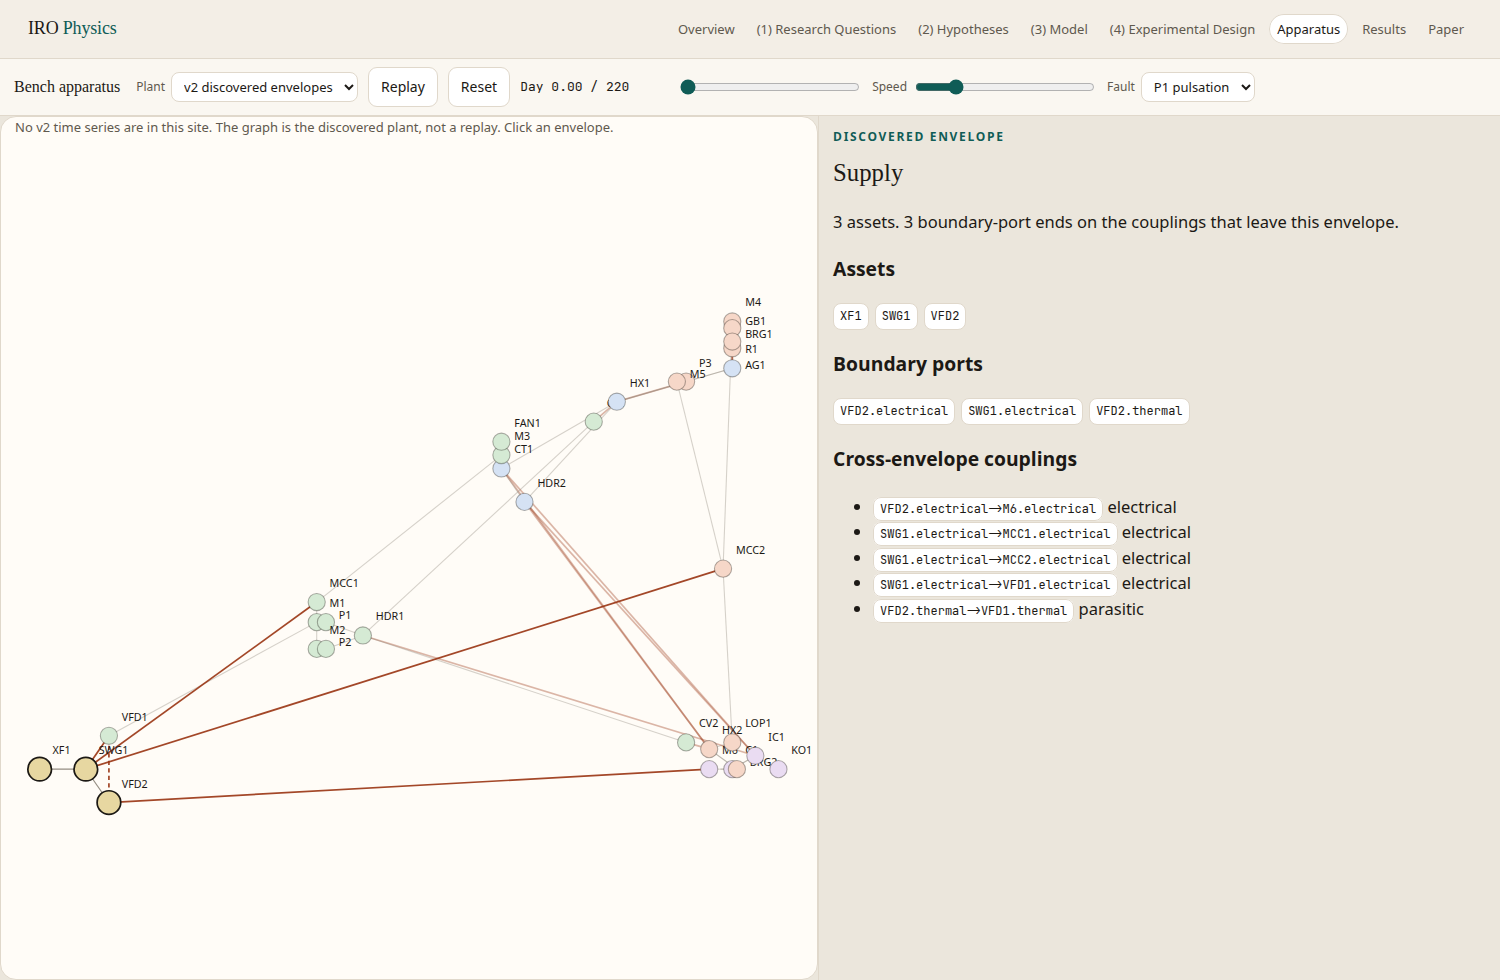
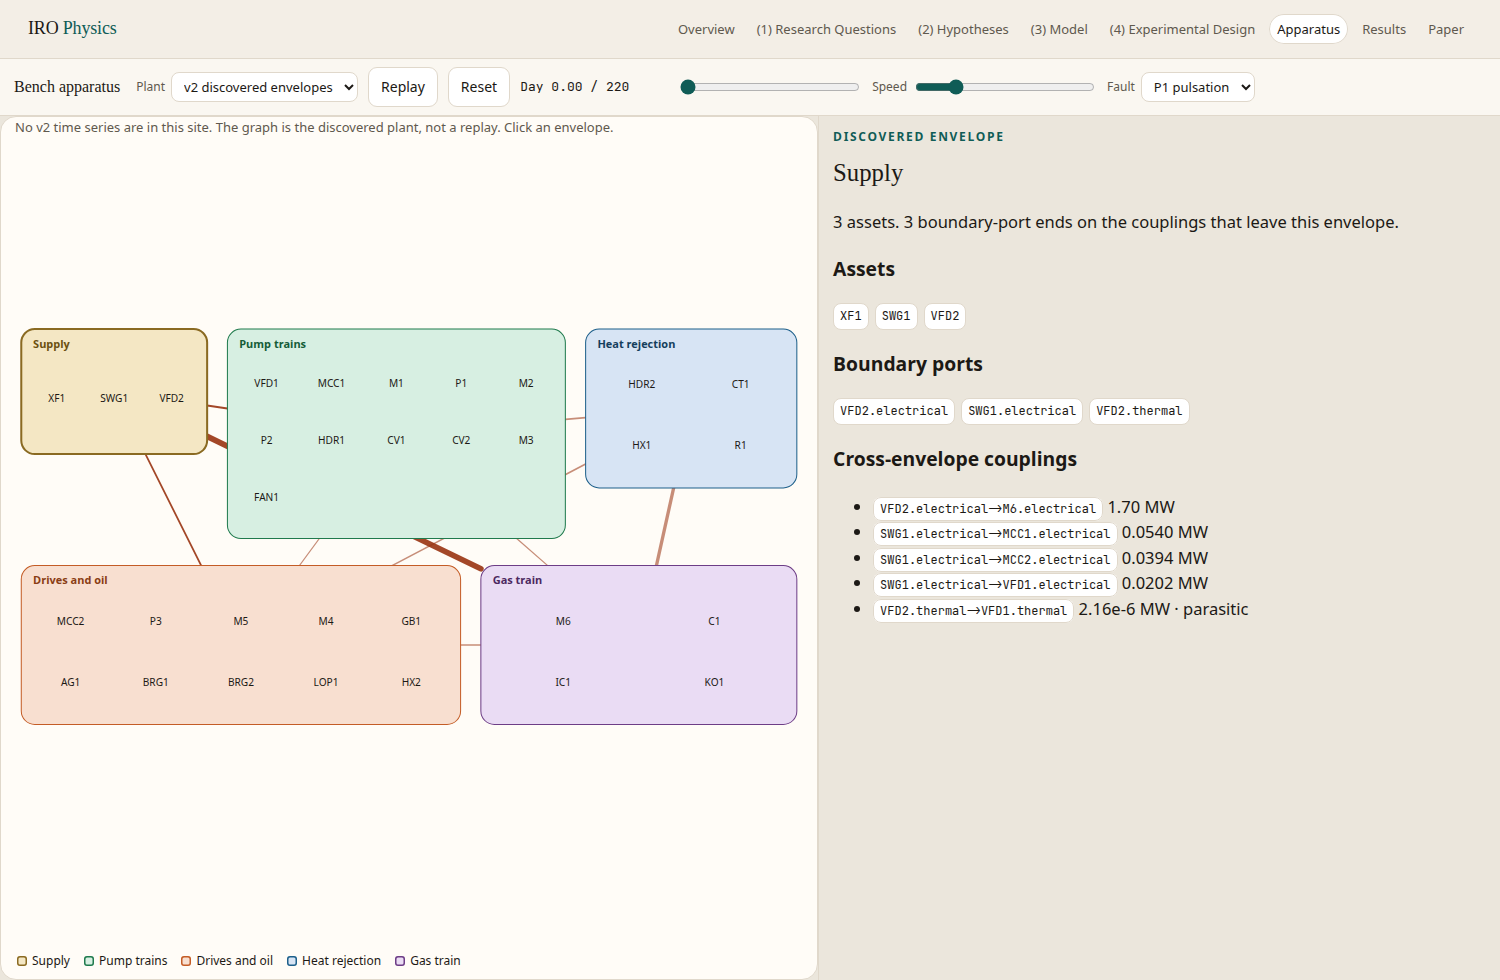
Make the v2 envelopes readable and round study numbers
Draw each discovered envelope as its own region, with one colour, a legend, and non-overlapping asset labels. Cross-envelope couplings run between the regions, with width from design power. Keep the v1 envelope cards inside their columns at 1280×800. Show study figures to 3 significant figures.

Changed region(s): [[0.0, 0.3061, 0.552, 0.8265], [0.7053, 0.4898, 0.828, 0.6429], [0.0, 0.9796, 0.3067, 1.0]]

diff --git a/site/js/v2-graph.js b/site/js/v2-graph.js
@@ -1,47 +1,104 @@
-const COLORS = ["#e7d7a1", "#d5ead4", "#f6d7c8", "#d5e2f4", "#eadcf2"];
+import { sig3 } from "./format.js";
+
+const PALETTE = {
+  Supply: { fill: "#f4e7c4", stroke: "#8a6a22", ink: "#6b5010" },
+  "Pump trains": { fill: "#d7efe2", stroke: "#1f7a4d", ink: "#145c38" },
+  "Drives and oil": { fill: "#f8dfd0", stroke: "#c45c26", ink: "#8a3d14" },
+  "Heat rejection": { fill: "#d7e4f4", stroke: "#1d5f8a", ink: "#143e5c" },
+  "Gas train": { fill: "#eadcf4", stroke: "#6d3d86", ink: "#4c2860" },
+};
+
+const BOX = {
+  Supply: { x: 24, y: 20, w: 220, h: 148 },
+  "Pump trains": { x: 268, y: 20, w: 400, h: 248 },
+  "Heat rejection": { x: 692, y: 20, w: 250, h: 188 },
+  "Drives and oil": { x: 24, y: 300, w: 520, h: 188 },
+  "Gas train": { x: 568, y: 300, w: 374, h: 188 },
+};
+
+const W = 966;
+const H = 560;
 
 export function mountV2(graphHost, detailHost, plant) {
-  const envById = Object.fromEntries(plant.envelopes.map((env, i) => [env.id, { ...env, color: COLORS[i % COLORS.length] }]));
-  const assetById = Object.fromEntries(plant.assets.map((asset) => [asset.id, asset]));
+  const envById = Object.fromEntries(plant.envelopes.map((env) => [env.id, env]));
   let selected = plant.envelopes[0].id;
 
-  graphHost.innerHTML = `<div class="v2-note">${plant.note} Click an envelope.</div><div id="v2svg"></div>`;
+  graphHost.innerHTML = `
+    <div class="v2-note">${plant.note} Click an envelope.</div>
+    <div id="v2svg"></div>
+    <div class="v2-legend" id="v2legend"></div>`;
   const stage = graphHost.querySelector("#v2svg");
+  graphHost.querySelector("#v2legend").innerHTML = plant.envelopes.map((env) => {
+    const tone = PALETTE[env.name];
+    return `<span><i style="background:${tone.fill};box-shadow:inset 0 0 0 1.5px ${tone.stroke}"></i>${env.name}</span>`;
+  }).join("");
+
+  function slots(env) {
+    const box = BOX[env.name];
+    const assets = plant.assets.filter((a) => a.envelopeId === env.id);
+    const n = assets.length;
+    const cols = n <= 3 ? n : n <= 4 ? 2 : n <= 8 ? 4 : 5;
+    const rows = Math.ceil(n / cols);
+    const top = 34;
+    const cw = (box.w - 16) / cols;
+    const ch = (box.h - top - 10) / rows;
+    return assets.map((asset, i) => ({
+      asset,
+      x: box.x + 8 + (i % cols) * cw + cw / 2,
+      y: box.y + top + Math.floor(i / cols) * ch + ch / 2,
+    }));
+  }
+
+  function edgePoint(from, to) {
+    const cx = from.x + from.w / 2;
+    const cy = from.y + from.h / 2;
+    const tx = to.x + to.w / 2;
+    const ty = to.y + to.h / 2;
+    const dx = tx - cx;
+    const dy = ty - cy;
+    const sx = dx === 0 ? Infinity : (from.w / 2) / Math.abs(dx);
+    const sy = dy === 0 ? Infinity : (from.h / 2) / Math.abs(dy);
+    const t = Math.min(sx, sy);
+    return { x: cx + dx * t, y: cy + dy * t };
+  }
 
   function draw() {
-    const xs = plant.assets.map((a) => a.x_m);
-    const ys = plant.assets.map((a) => a.y_m);
-    const minX = Math.min(...xs);
-    const maxX = Math.max(...xs);
-    const minY = Math.min(...ys);
-    const maxY = Math.max(...ys);
-    const W = 760;
-    const H = 520;
-    const pad = 36;
-    const sx = (x) => pad + ((x - minX) / (maxX - minX || 1)) * (W - pad * 2);
-    const sy = (y) => pad + ((maxY - y) / (maxY - minY || 1)) * (H - pad * 2);
-    const pos = Object.fromEntries(plant.assets.map((a) => [a.id, { x: sx(a.x_m), y: sy(a.y_m) }]));
-    const edges = plant.couplings.map((c) => {
-      const a = pos[c.sourceAssetId];
-      const b = pos[c.targetAssetId];
-      const on = c.sourceEnvelopeId === selected || c.targetEnvelopeId === selected;
-      const color = c.boundary ? "#9a3412" : "#8a8276";
-      return `<line x1="${a.x.toFixed(1)}" y1="${a.y.toFixed(1)}" x2="${b.x.toFixed(1)}" y2="${b.y.toFixed(1)}" stroke="${color}" stroke-width="${c.boundary ? 1.6 : 1}" opacity="${on ? 0.9 : 0.35}" ${c.intent === "parasitic" ? 'stroke-dasharray="4 3"' : ""}><title>${c.id}</title></line>`;
-    }).join("");
-    const placed = [];
-    const nodes = plant.assets.map((a) => {
-      const p = pos[a.id];
-      const env = envById[a.envelopeId];
-      const on = a.envelopeId === selected;
-      let ly = p.y - 14;
-      while (placed.some((q) => Math.hypot(q.x - p.x, q.y - ly) < 11)) ly += 11;
-      placed.push({ x: p.x, y: ly });
-      return `<g data-env="${a.envelopeId}" style="cursor:pointer">
-        <circle cx="${p.x.toFixed(1)}" cy="${p.y.toFixed(1)}" r="${on ? 11 : 8}" fill="${env.color}" stroke="${on ? "#1c1915" : "rgba(28,25,21,0.35)"}" stroke-width="${on ? 1.6 : 1}"></circle>
-        <text x="${(p.x + 12).toFixed(1)}" y="${ly.toFixed(1)}" text-anchor="start" font-size="10" fill="#1c1915">${a.id}</text>
+    const boxes = plant.envelopes.map((env) => ({ env, box: BOX[env.name], tone: PALETTE[env.name] }));
+    const regions = boxes.map(({ env, box, tone }) => {
+      const on = env.id === selected;
+      return `<g data-env="${env.id}" style="cursor:pointer">
+        <rect x="${box.x}" y="${box.y}" width="${box.w}" height="${box.h}" rx="16" fill="${tone.fill}" stroke="${tone.stroke}" stroke-width="${on ? 2.4 : 1.2}"></rect>
+        <text x="${box.x + 14}" y="${box.y + 22}" fill="${tone.ink}" font-size="13" font-weight="650">${env.name}</text>
       </g>`;
     }).join("");
-    stage.innerHTML = `<svg viewBox="0 0 ${W} ${H}" role="img" aria-label="v2 discovered envelopes">${edges}${nodes}</svg>`;
+    const nodes = boxes.flatMap(({ env }) => slots(env).map(({ asset, x, y }) => `
+      <g data-env="${env.id}" style="cursor:pointer">
+        <text x="${x.toFixed(1)}" y="${y.toFixed(1)}" text-anchor="middle" font-size="12" fill="#1c1915">${asset.id}</text>
+      </g>`)).join("");
+
+    const bundles = new Map();
+    for (const coupling of plant.couplings) {
+      if (!coupling.boundary) continue;
+      const key = [coupling.sourceEnvelopeId, coupling.targetEnvelopeId].sort().join("|");
+      if (!bundles.has(key)) bundles.set(key, { ids: [], power: 0, parasitic: true, a: coupling.sourceEnvelopeId, b: coupling.targetEnvelopeId });
+      const bundle = bundles.get(key);
+      bundle.ids.push(coupling.id);
+      bundle.power += Math.abs(Number(coupling.powerMw) || 0);
+      if (coupling.intent !== "parasitic") bundle.parasitic = false;
+    }
+    const maxPower = Math.max(0.001, ...[...bundles.values()].map((b) => b.power));
+    const lines = [...bundles.values()].map((bundle) => {
+      const from = BOX[envById[bundle.a].name];
+      const to = BOX[envById[bundle.b].name];
+      const p1 = edgePoint(from, to);
+      const p2 = edgePoint(to, from);
+      const width = (1.25 + 5.5 * Math.sqrt(bundle.power / maxPower)).toFixed(2);
+      const on = bundle.a === selected || bundle.b === selected;
+      const dash = bundle.parasitic ? 'stroke-dasharray="5 4"' : "";
+      return `<line x1="${p1.x.toFixed(1)}" y1="${p1.y.toFixed(1)}" x2="${p2.x.toFixed(1)}" y2="${p2.y.toFixed(1)}" stroke="#9a3412" stroke-width="${width}" stroke-linecap="round" opacity="${on ? 0.9 : 0.55}" ${dash}><title>${bundle.ids.join(", ")} · ${sig3(bundle.power)} MW</title></line>`;
+    }).join("");
+
+    stage.innerHTML = `<svg viewBox="0 0 ${W} ${H}" role="img" aria-label="v2 discovered envelopes">${lines}${regions}${nodes}</svg>`;
     stage.querySelectorAll("[data-env]").forEach((node) => {
       node.addEventListener("click", () => {
         selected = node.dataset.env;
@@ -65,7 +122,7 @@ export function mountV2(graphHost, detailHost, plant) {
       <h3>Boundary ports</h3>
       <div class="chip-row">${ports.map((p) => `<span class="chip">${p.portId}</span>`).join("")}</div>
       <h3>Cross-envelope couplings</h3>
-      <ul>${links.map((c) => `<li><span class="chip">${c.id}</span> ${c.intent === "parasitic" ? "parasitic" : c.domain}</li>`).join("")}</ul>`;
+      <ul>${links.map((c) => `<li><span class="chip">${c.id}</span> ${sig3(c.powerMw)} MW${c.intent === "parasitic" ? " · parasitic" : ""}</li>`).join("")}</ul>`;
   }
 
   draw();

diff --git a/site/css/site.css b/site/css/site.css
@@ -398,7 +398,7 @@ body.app .top { flex: none; }
 .env-head h2 { margin: 0; font-family: var(--serif); font-weight: 500; font-size: 22px; }
 .env-head .honest { margin: 4px 0 0; color: var(--muted); font-size: 12.5px; max-width: 68ch; }
 .env-tools { display: flex; flex-wrap: wrap; gap: 8px; align-items: center; padding: 8px 14px; font-size: 12px; color: var(--muted); }
-.env-stage { position: relative; flex: 1; min-height: 240px; margin: 0 10px; }
+.env-stage { position: relative; flex: 1 1 300px; min-height: 300px; margin: 0 10px 8px; overflow: hidden; }
 .env-svg { position: absolute; inset: 0; width: 100%; height: 100%; overflow: visible; z-index: 1; }
 .env-cols {
   position: relative;
@@ -412,8 +412,9 @@ body.app .top { flex: none; }
 .env-col {
   flex: 1;
   min-width: 0;
+  min-height: 0;
   border-radius: 12px;
-  padding: 8px 6px;
+  padding: 6px 6px;
   display: flex;
   flex-direction: column;
   pointer-events: none;
@@ -426,13 +427,14 @@ body.app .top { flex: none; }
   margin-bottom: 6px;
 }
 .env-col header b { color: var(--ink); font-size: 13px; letter-spacing: 0; margin-right: 4px; }
-.env-stack { display: flex; flex-direction: column; justify-content: space-evenly; gap: 8px; flex: 1; }
+.env-stack { display: flex; flex-direction: column; justify-content: flex-start; gap: 6px; flex: 1; min-height: 0; overflow: auto; }
 .asset {
   pointer-events: auto;
+  flex: none;
   background: rgba(255, 252, 247, 0.94);
   border: 1px solid rgba(28, 25, 21, 0.14);
   border-radius: 10px;
-  padding: 6px 8px 7px;
+  padding: 4px 6px 5px;
 }
 .asset.at-limit { box-shadow: inset 0 0 0 1.5px var(--damage); }
 .asset header { display: flex; justify-content: space-between; gap: 6px; align-items: baseline; }
@@ -452,12 +454,13 @@ body.app .top { flex: none; }
 .asset.at-limit .nums { color: var(--damage); }
 .legend {
   display: flex; gap: 12px; flex-wrap: wrap;
-  padding: 0 16px 4px;
+  flex: none;
+  padding: 4px 16px 2px;
   font-size: 11px; color: var(--muted);
 }
 .legend i { display: inline-block; width: 8px; height: 8px; border-radius: 50%; margin-right: 4px; }
 
-.below { flex: none; padding: 4px 12px 10px; display: flex; flex-direction: column; gap: 8px; }
+.below { flex: none; position: relative; z-index: 3; background: var(--card); padding: 4px 12px 10px; display: flex; flex-direction: column; gap: 8px; }
 .deriv-head { display: flex; justify-content: space-between; gap: 8px; align-items: baseline; flex-wrap: wrap; }
 .deriv-head p { margin: 0; font-size: 12px; color: var(--muted); }
 .deriv-grid { display: grid; grid-template-columns: repeat(4, 1fr); gap: 8px; }
@@ -474,7 +477,9 @@ body.app .top { flex: none; }
   font-size: 11px; color: var(--muted); padding: 0 2px 2px;
 }
 .deriv-grid figcaption b { color: var(--ink); font-weight: 650; }
-.deriv-grid canvas { width: 100%; height: 72px; display: block; }
+.deriv-grid canvas { width: 100%; height: 56px; display: block; }
+.v2-legend { display: flex; gap: 14px; flex-wrap: wrap; padding: 0 16px 8px; font-size: 12px; color: var(--ink); }
+.v2-legend i { display: inline-block; width: 10px; height: 10px; border-radius: 3px; margin-right: 5px; vertical-align: -1px; }
 .warn-grid { display: grid; grid-template-columns: repeat(3, 1fr); gap: 8px; }
 .warn {
   border: 1px solid var(--line);

diff --git a/site/js/design.js b/site/js/design.js
@@ -1,3 +1,5 @@
+import { sig3 } from "./format.js";
+
 const [plant, v2] = await Promise.all([
   fetch("data/v2-plant.json").then((r) => r.json()),
   fetch("data/v2-results.json").then((r) => r.json()),
@@ -10,7 +12,7 @@ extra.innerHTML = `
   <p>v1 is the 11-asset plant already on the Apparatus page: four envelopes assigned by function, 21 ports, 13 couplings. The headline fault is a pulsation at P1.fluid. The run is seed 1000 of that study.</p>
   <p>v2 is a separate plant. Counted from the v2 graph file built from <code>plant_v2.py</code>: ${c.assets} assets, ${c.ports} ports, ${c.bonds} bonds, ${c.couplings} couplings, of which ${c.boundaryCouplings} cross a discovered envelope. The envelopes used downstream are the PF-louvain partition, ${c.envelopes} envelopes, ${c.boundaryPorts} boundary ports. They were not assigned. An engineer’s functional grouping and an area grouping are kept only for scoring and for the REDUCED_ENG predictor.</p>
   <h2>Finding the envelopes</h2>
-  <p>Step 5 tries four weightings of the same asset graph: design power flow, Kedem–Caplan q on the Kron two-port <span class="badge draft">proposed</span>, timescale signatures, and slow coherency. Each weighting is partitioned by spectral clustering and by Louvain. The selection rule, fixed before the comparison with the engineer, keeps the power-flow or Kedem–Caplan partition with the highest mean adjusted Rand index under a ±30% parameter perturbation. On this plant that is PF-louvain. Modularity is reported against nulls and is not treated as proof of an envelope. For the power-flow weights, Q is ${v2.modularityNull.PF.Q}, below the weight-shuffle null mean ${v2.modularityNull.PF.null_mean}. Topology Q ${v2.modularityNull.topology.Q_unweighted} against a rewired null mean ${v2.modularityNull.topology.rewired_null_mean} has p ${v2.modularityNull.topology.p_ge}.</p>
+  <p>Step 5 tries four weightings of the same asset graph: design power flow, Kedem–Caplan q on the Kron two-port <span class="badge draft">proposed</span>, timescale signatures, and slow coherency. Each weighting is partitioned by spectral clustering and by Louvain. The selection rule, fixed before the comparison with the engineer, keeps the power-flow or Kedem–Caplan partition with the highest mean adjusted Rand index under a ±30% parameter perturbation. On this plant that is PF-louvain. Modularity is reported against nulls and is not treated as proof of an envelope. For the power-flow weights, Q is ${sig3(v2.modularityNull.PF.Q)}, below the weight-shuffle null mean ${sig3(v2.modularityNull.PF.null_mean)}. Topology Q ${sig3(v2.modularityNull.topology.Q_unweighted)} against a rewired null mean ${sig3(v2.modularityNull.topology.rewired_null_mean)} has p ${sig3(v2.modularityNull.topology.p_ge)}.</p>
   <h2>Predictors</h2>
   <ul>
     <li>FULL. Every port. On v2 that is all ${c.ports} ports.</li>

diff --git a/site/js/envelope-view.js b/site/js/envelope-view.js
@@ -27,11 +27,11 @@ export function mountEnvelope(root, { plant, scenario, getFault, clock, initialM
           <option value="reduced">Envelope as one asset</option>
         </select></label>
       </div>
+      <div class="legend" id="envLegend"></div>
       <div class="env-stage" id="envStage">
         <svg class="env-svg" id="envSvg"></svg>
         <div class="env-cols" id="envCols"></div>
       </div>
-      <div class="legend" id="envLegend"></div>
       <div class="below">
         <div class="deriv-head">
           <label>Instrument <select id="envInstrument"></select></label>
@@ -121,9 +121,8 @@ export function mountEnvelope(root, { plant, scenario, getFault, clock, initialM
   function assetCard(id) {
     const asset = assetById[id];
     const ports = plant.ports.filter((p) => p.assetId === id);
-    const role = asset.name.split("(")[0].trim();
     return `<article class="asset" data-asset="${id}" title="${escapeHtml(asset.name)}">
-      <header><b>${id}</b><span>${escapeHtml(role.length > 22 ? role.slice(0, 20) + "…" : role)}</span></header>
+      <header><b>${id}</b></header>
       <div class="ports">${ports.map(portDot).join("")}</div>
       <div class="meter" title="Entropy generation against the Safe limit"><i data-meter="${id}"></i></div>
       <span class="nums" data-nums="${id}"></span>
@@ -229,7 +228,7 @@ export function mountEnvelope(root, { plant, scenario, getFault, clock, initialM
       const power = Number(row.powerDc[i]) + Number(row.powerAc[i]);
       const width = 1.15 + 8 * Math.sqrt(Math.min(1.4, Math.abs(power) / (scale * 1.2 + 0.05)));
       const forward = power >= 0;
-      const bow = coupling.boundary ? -18 - (Math.abs(hash(coupling.id)) % 3) * 10 : 18;
+      const bow = coupling.boundary ? -14 : 0;
       const from = forward ? a : b;
       const to = forward ? b : a;
       const dash = coupling.intent === "parasitic" ? ' stroke-dasharray="4 4"' : "";

diff --git a/site/js/format.js b/site/js/format.js
@@ -2,11 +2,26 @@ export function text(value) {
   if (value === null || value === undefined || value === "") return "—";
   if (typeof value === "number") {
     if (!Number.isFinite(value)) return "—";
-    return String(value);
+    return sig3(value);
   }
   const s = String(value);
   if (s === "nan" || s === "NaN") return "—";
-  return s;
+  return sig3(s);
+}
+
+/** Three significant figures for a plain number. Fractions and ranges stay as stored. */
+export function sig3(value) {
+  if (value === null || value === undefined || value === "") return "—";
+  const s = String(value).trim();
+  if (s === "nan" || s === "NaN") return "—";
+  if (!/^[-+]?(?:\d+\.?\d*|\.\d+)(?:[eE][-+]?\d+)?$/.test(s)) return s;
+  const n = Number(s);
+  if (!Number.isFinite(n)) return s;
+  const ax = Math.abs(n);
+  if (ax === 0) return "0";
+  if (Number.isInteger(n) && ax < 1e6) return String(n);
+  if (ax >= 1e4 || ax < 1e-3) return n.toExponential(2).replace("e+", "e");
+  return n.toPrecision(3);
 }
 
 export function compact(value) {

diff --git a/site/hypotheses.html b/site/hypotheses.html
@@ -13,7 +13,7 @@
     <h1>Draft hypotheses for review by Brant and Rob</h1>
     <div class="draft-banner">
       <span class="badge draft">Draft</span>
-      These are testable readings of the research questions, not conclusions. A status of “partly supported” means the result files agree with only part of the prediction. Numbers are the stored tokens from the v1 and v2 result files.
+      These are testable readings of the research questions, not conclusions. A status of “partly supported” means the result files agree with only part of the prediction. Numbers are the study values, shown to 3 significant figures. Counts and fractions stay as stored.
     </div>
     <div id="hypotheses"></div>
   </main>

diff --git a/tools/build_v2_site_data.py b/tools/build_v2_site_data.py
@@ -65,6 +65,12 @@ def main():
             "envelopeId": env_of[asset.tag],
         })
 
+    def design_power_mw(link):
+        """Design power on a coupling, MW. Thermal links store heat flow in f0."""
+        if "thermal" in link.source:
+            return abs(link.f0)
+        return abs(link.f0 * pv.E[link.source])
+
     couplings = []
     for link in pv.couplings():
         a = pv.port_asset(link.source)
@@ -82,6 +88,7 @@ def main():
             "topology": link.topology,
             "mechanism": link.mechanism,
             "length_m": link.length_m,
+            "powerMw": design_power_mw(link),
             "boundary": env_of[a] != env_of[b],
         })
 
